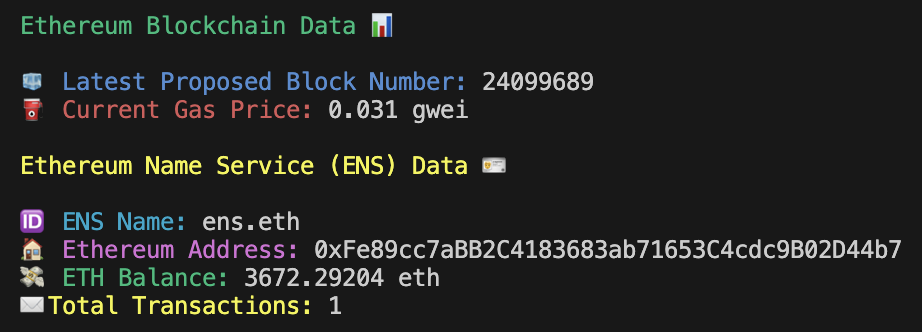
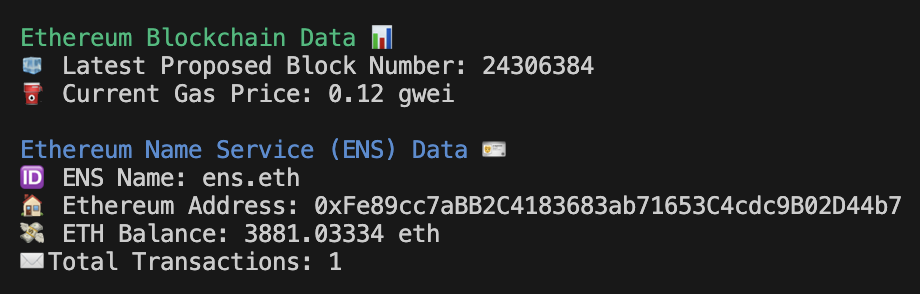
fix subprocess commands, edit cli color

Changed region(s): [[0.0, 0.4592, 1.0, 0.949], [0.0, 0.0306, 0.6696, 0.3673]]

diff --git a/connect.py b/connect.py
@@ -25,9 +25,12 @@ def get_infura_key() -> str:
     Returns:
         key: Infura API key, stored in .bashrc file.
     """
-    subprocess.run("source ~/.bashrc", shell=True, check=True)
     key = subprocess.run(
-        "echo $INFURA_KEY", shell=True, capture_output=True, text=True, check=True
+        "source ~/.bashrc && echo $INFURA_KEY",
+        shell=True,
+        capture_output=True,
+        text=True,
+        check=True,
     ).stdout.rstrip()
 
     return key
@@ -51,56 +54,26 @@ if __name__ == "__main__":
     )
 
     if provider.is_connected():
-        print(colorama.Fore.GREEN + "\nEthereum Blockchain Data 📊\n")
+        print(colorama.Fore.GREEN + "\nEthereum Blockchain Data 📊")
 
         # Get most recent block number.
-        print(
-            colorama.Fore.BLUE
-            + "🧊 Latest Proposed Block Number: "
-            + colorama.Style.RESET_ALL
-            + f"{provider.eth.get_block_number()}"
-        )
+        print(f"🧊 Latest Proposed Block Number: {provider.eth.get_block_number()}")
 
         # Get current gas price.
         print(
-            colorama.Fore.RED
-            + "⛽ Current Gas Price: "
-            + colorama.Style.RESET_ALL
-            + f"{round(provider.eth.gas_price * 10E-10, 3)} gwei"
+            f"⛽ Current Gas Price: {round(provider.eth.gas_price * 10E-10, 3)} gwei\n"
         )
 
         if args.ens:
             # Get account information for ENS name.
-            print(
-                colorama.Fore.LIGHTYELLOW_EX + "\nEthereum Name Service (ENS) Data 🪪"
-            )
+            print(colorama.Fore.BLUE + "Ethereum Name Service (ENS) Data 🪪")
             address = provider.ens.address(args.ens)
             balance = round(provider.eth.get_balance(address) * 10e-19, 5)  # in ETH
             txs = provider.eth.get_transaction_count(address)
-            print(
-                colorama.Fore.CYAN
-                + "\n🆔 ENS Name: "
-                + colorama.Style.RESET_ALL
-                + f"{args.ens}"
-            )
-            print(
-                colorama.Fore.LIGHTMAGENTA_EX
-                + "🏠 Ethereum Address: "
-                + colorama.Style.RESET_ALL
-                + f"{address}"
-            )
-            print(
-                colorama.Fore.GREEN
-                + "💸 ETH Balance: "
-                + colorama.Style.RESET_ALL
-                + f"{balance} eth"
-            )
-            print(
-                colorama.Fore.LIGHTYELLOW_EX
-                + "✉ Total Transactions: "
-                + colorama.Style.RESET_ALL
-                + f"{txs}\n"
-            )
+            print(f"🆔 ENS Name: {args.ens}")
+            print(f"🏠 Ethereum Address: {address}")
+            print(f"💸 ETH Balance: {balance} eth")
+            print(f"✉ Total Transactions: {txs}\n")
     else:
         print(
             colorama.Fore.RED
